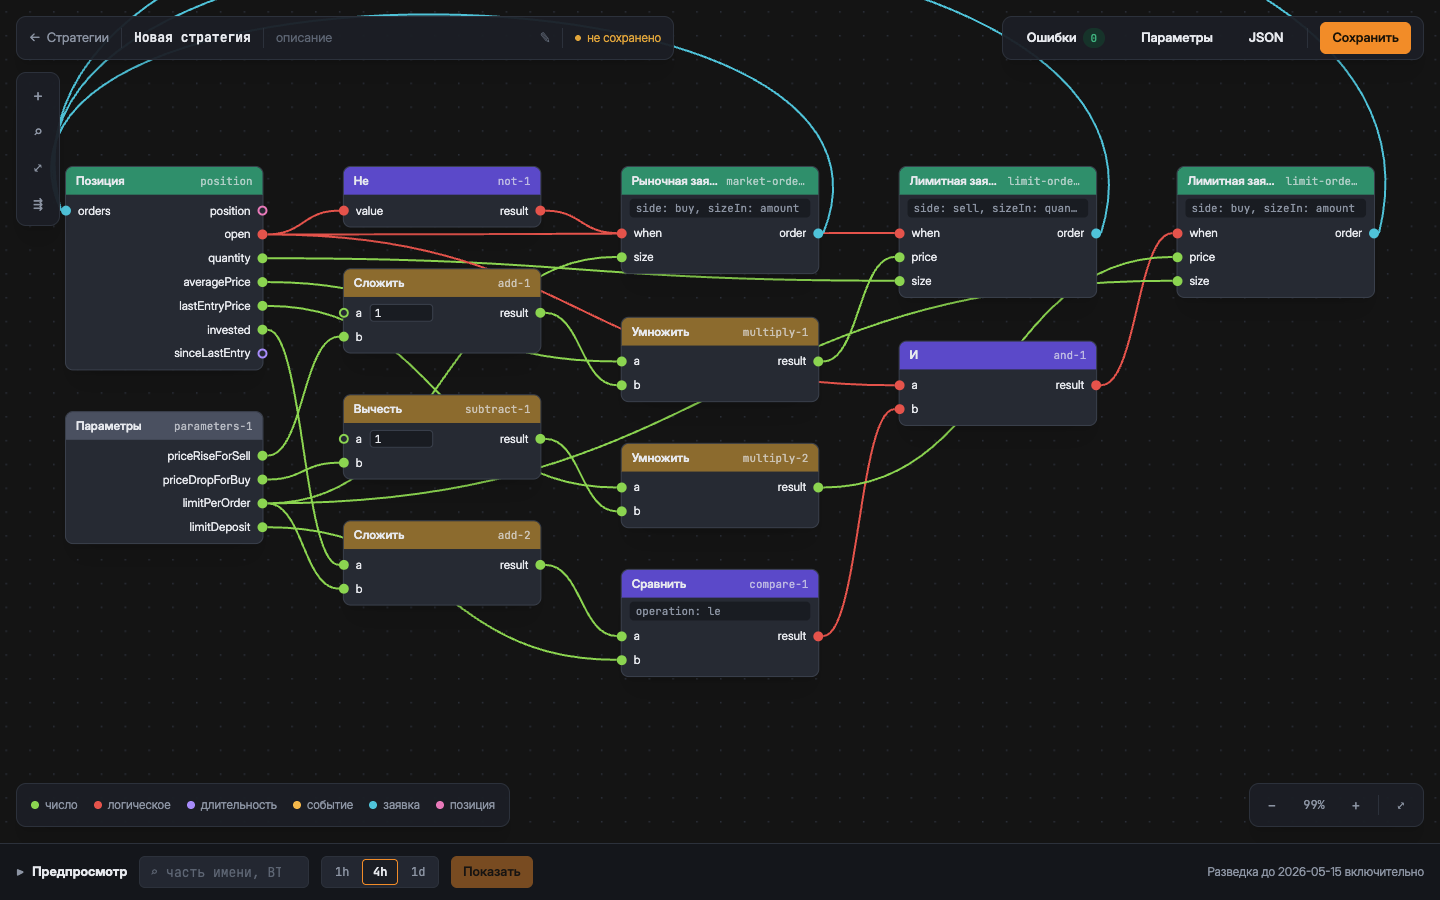
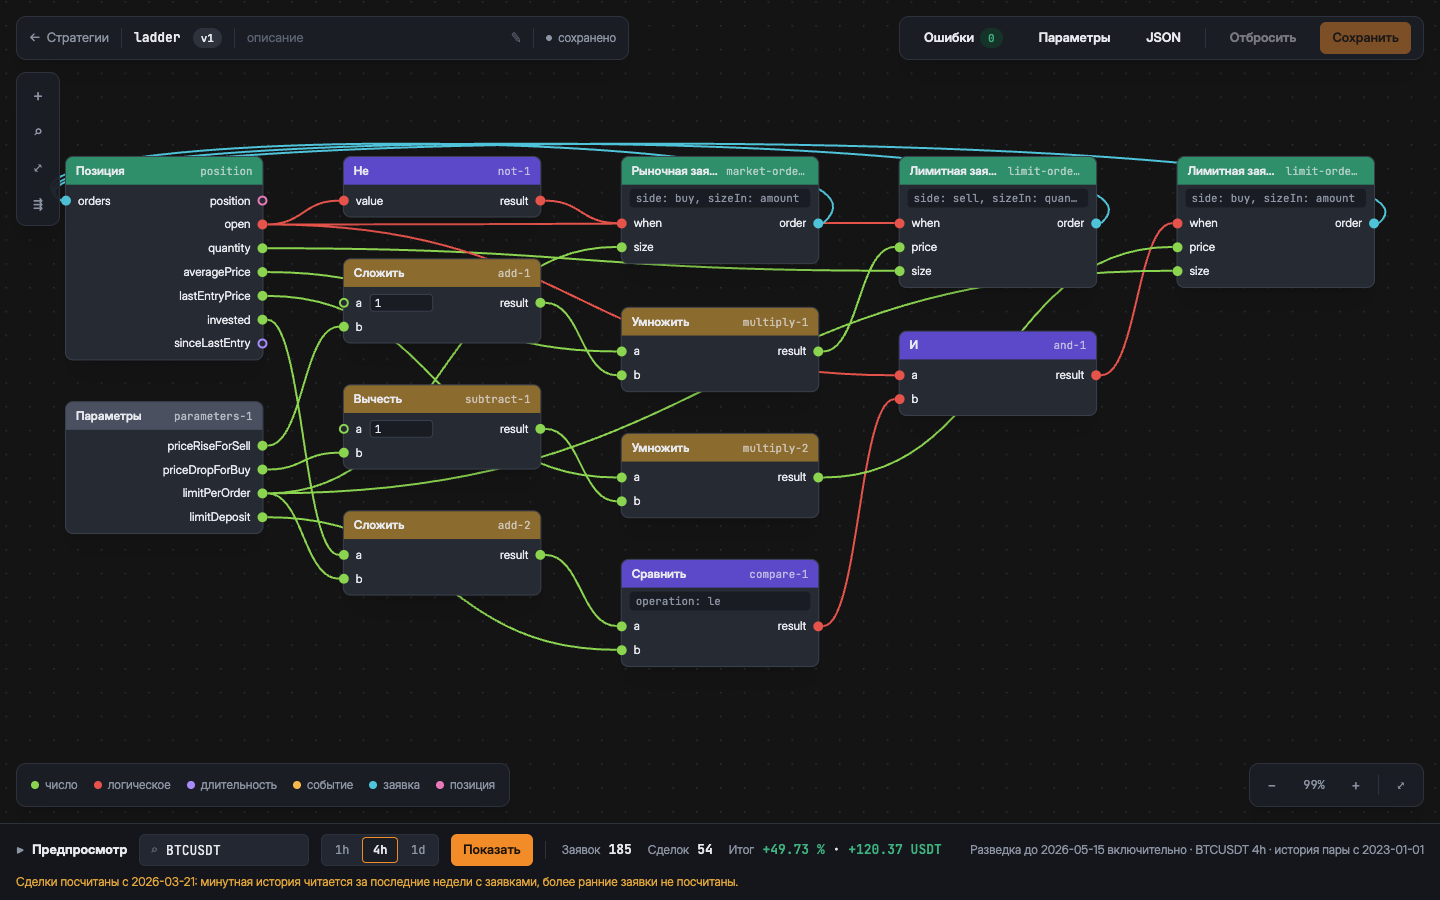
docs(openspec): record the check of the fixes of add-position-node
The fixes of groups 11 and 12 are checked at ccb1d5b: build, tests, the
previews of funding-short and of the ladder against the former answers,
a live check at 1440x900 and a review of the diff. Screenshots 02-04 are
taken again, 07 and 08 are new; what is left is noted as not blocking.

diff --git a/openspec/changes/add-position-node/tasks.md b/openspec/changes/add-position-node/tasks.md
@@ -570,6 +570,25 @@
 - **Что осталось основной сессии.** Живая проверка в браузере 12.3–12.6 и предпросмотра лесенки после группы 11
   (ожидание: ответ `ladder` прежний, группа 11 меняет стратегии со сроком, стопом, целью и `close-position`); задача
   10.4. В облачной сессии dev-стенда с историей пар нет.
+- **Проверка исправлений групп 11 и 12 (сессия проверки, 2026-11-22, `ccb1d5b`).** Сборка, тесты и предпросмотр — в
+  «Замерах». Вживую в окне 1440×900 на dev-стенде: 12.2 — у нового узла «Стоп» поле значения есть только у
+  `distance`; 12.3 — временная стратегия прежнего вида (копия версии 2 `funding-short`, заведена в dev-базе и после
+  проверки удалена) открылась «не сохранено» с включённой «Сохранить» и выключенной «Отбросить», сохранение без правок
+  дало версию 2, версия 1 в базе осталась из трёх узлов, `raised` стал ложью; 12.4 — таблица «Сделки» помещается в
+  панель (колонки 971–1440 px), строки по 40 px; 12.5 — дуги возвратов внутри холста; 12.6 — график лесенки
+  открывается на 19 марта – 15 мая, график `funding-short` — на всей истории; 12.7 — рыночный вход лесенки стоит на
+  свече, в которую попал, выбор строки подсвечивает метки цикла. Снимки `02`–`04` пересняты, добавлены `07` и `08`;
+  `01` показывает панель до правки 12.4.
+- **Что осталось после проверки исправлений, архиву не мешает.** Ревью диффа `a55287b..ccb1d5b` (чтением кода)
+  дефектов в исправлениях не нашло; мелочи: (1) `PositionRun.State()` приводит количество и вложенное к `decimal` без
+  проверки — у позиции больше `7.9e28` предпросмотр ответит 500, как до 12.8 отвечал `multiply`; (2) рыночная докупка,
+  стоящая в минуту, где достигнута цель или лимитная продажа, помечает цикл неоднозначным, хотя по новому требованию
+  рыночное исполнение само неоднозначности не даёт (так было и до 11.3; лесенку не задевает); (3) ни один тест срока
+  не доходит до истечения посреди свечи (`Expire` в начале минуты) — путь прочитан руками и верен; (4) тест на 20 000
+  исполнений ждёт меньше 2 с по часам и на нагруженной машине может упасть зря. По живой проверке: дуги трёх возвратов
+  лесенки идут одной пологой линией в 12 px над верхним рядом узлов (снимок `02`) — цикл виден, но читается хуже
+  петли на `funding-short`; при открытой панели предпросмотра «Вписать в экран» ставит верхний ряд узлов лесенки и
+  дуги под плашки шапки (снимок `03`) — вписывание плашек не учитывает, это было и до изменения.
 
 ## База
 
@@ -650,6 +669,14 @@ PR #21 не слит), .NET SDK 10.0.115, Node 22.
   из `ci.yml` пуста. `openspec validate add-position-node --strict` проходит. Закреплённые тесты из шапки не менялись
   ни одной строкой; `EngineVersion.Number` = `2`; SHA-256 `EngineVersions.json` равен базе
[1 lines of base64/hex data omitted]
+- **Проверка исправлений (сессия проверки, 2026-11-22, `ccb1d5b`, машина владельца).** Сборка `Release` с
+  `--no-incremental` — 0 предупреждений, 0 ошибок; unit 471, интеграционные 215, зелёные; фронтенд 257 тестов в 20
+  файлах, `typecheck`, `lint`, `format:check`, `build` зелёные; проверка однострочных `<summary>` пуста; `openspec
+  validate add-position-node --strict` проходит. Закреплённые тесты в диффе `a55287b..ccb1d5b` не менялись;
+  `EngineVersion.Number` = `2`, SHA-256 `EngineVersions.json` равен базе. Ответы `POST /api/preview/strategy` для
+  `funding-short` (`4h`) и `ladder` (`1h`, `4h`) на `BTCUSDT` побитно равны ответам на `b8d7823`: 2 цикла и эталон
+  задачи 1.2; 185 заявок, 54 цикла. Время: `funding-short` 0.66–0.88 с, лесенка 2.0–3.5 с повторный запрос, первый
+  запрос `1h` 8.3 с.
 - **11.6, время.** Цикл из 20 000 рыночных докупок (`PositionRunTests.A_cycle_of_twenty_thousand_fills_is_counted_within_two_seconds`):
   до правки 20.6 с, после — около 0.3 с.
 - **12.3, OpenAPI и схема.** SHA-256 `/openapi/v1.json` (API в `Development` на `http://127.0.0.1:5240`, база —
